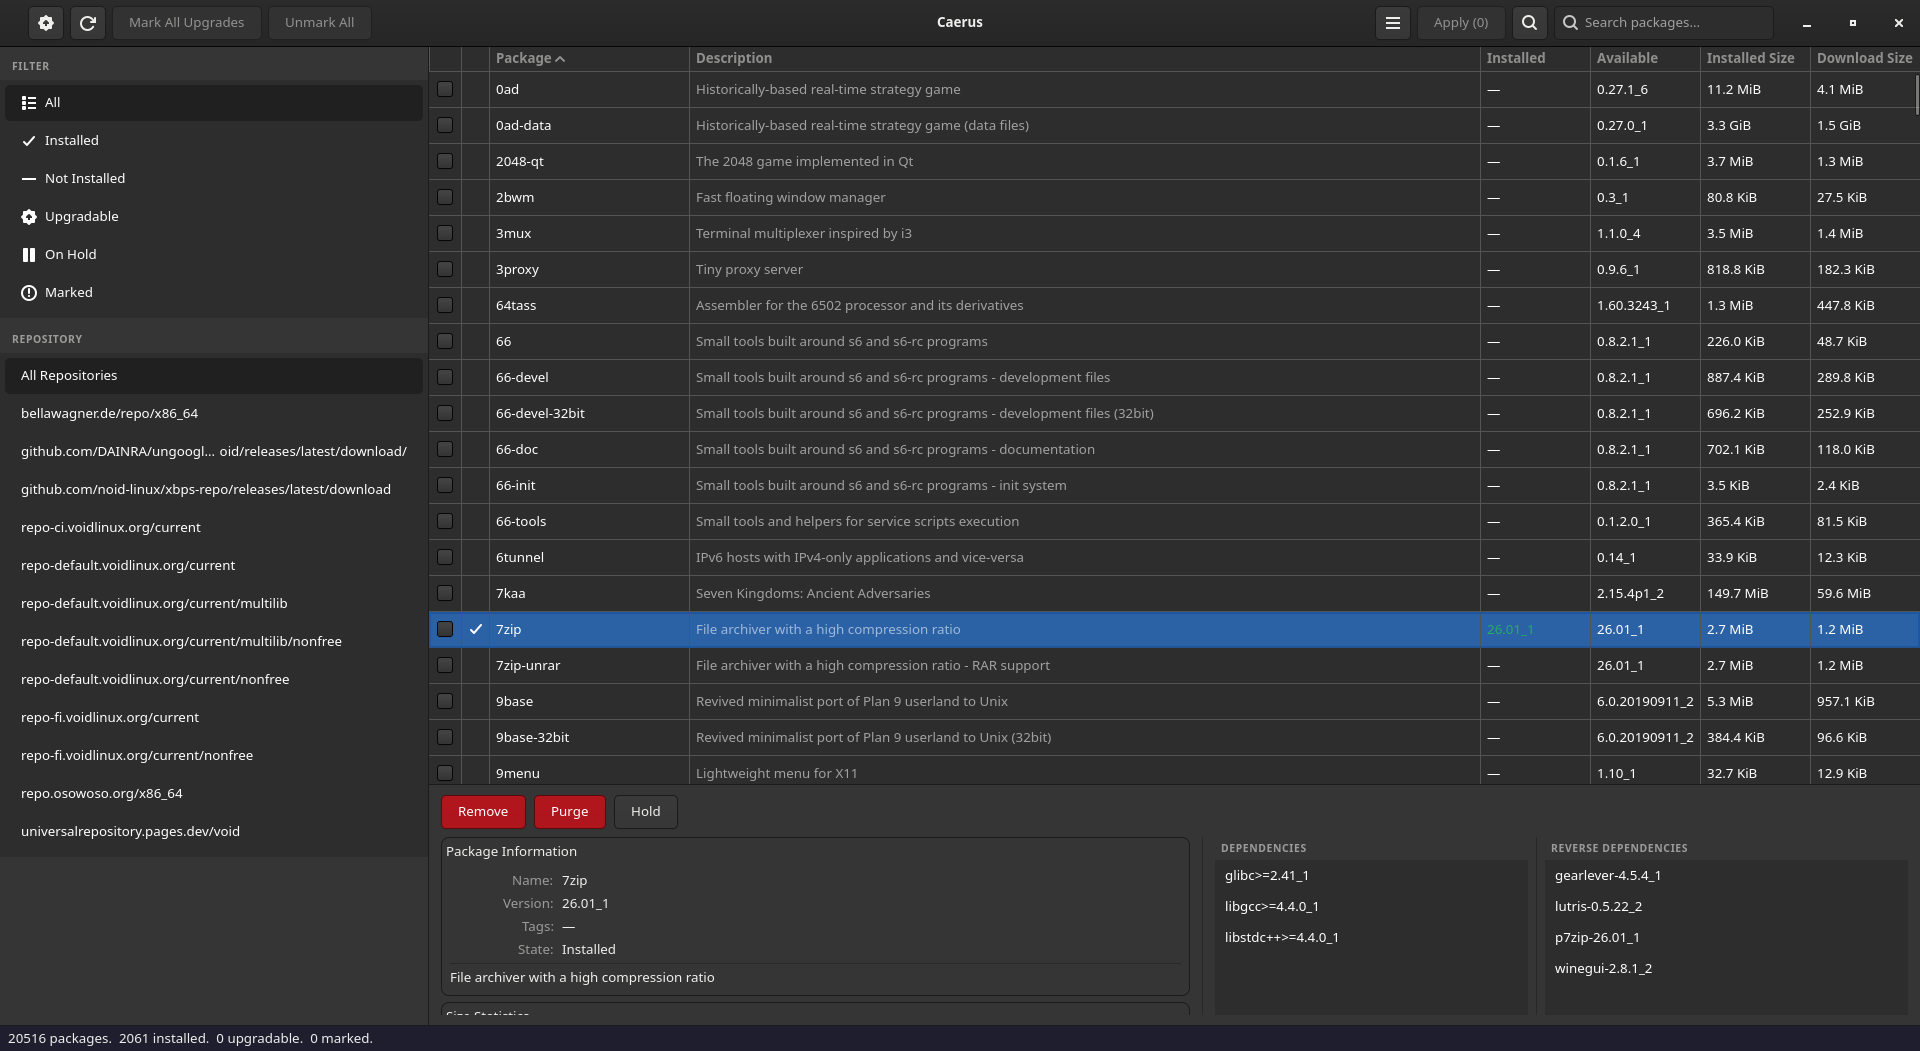
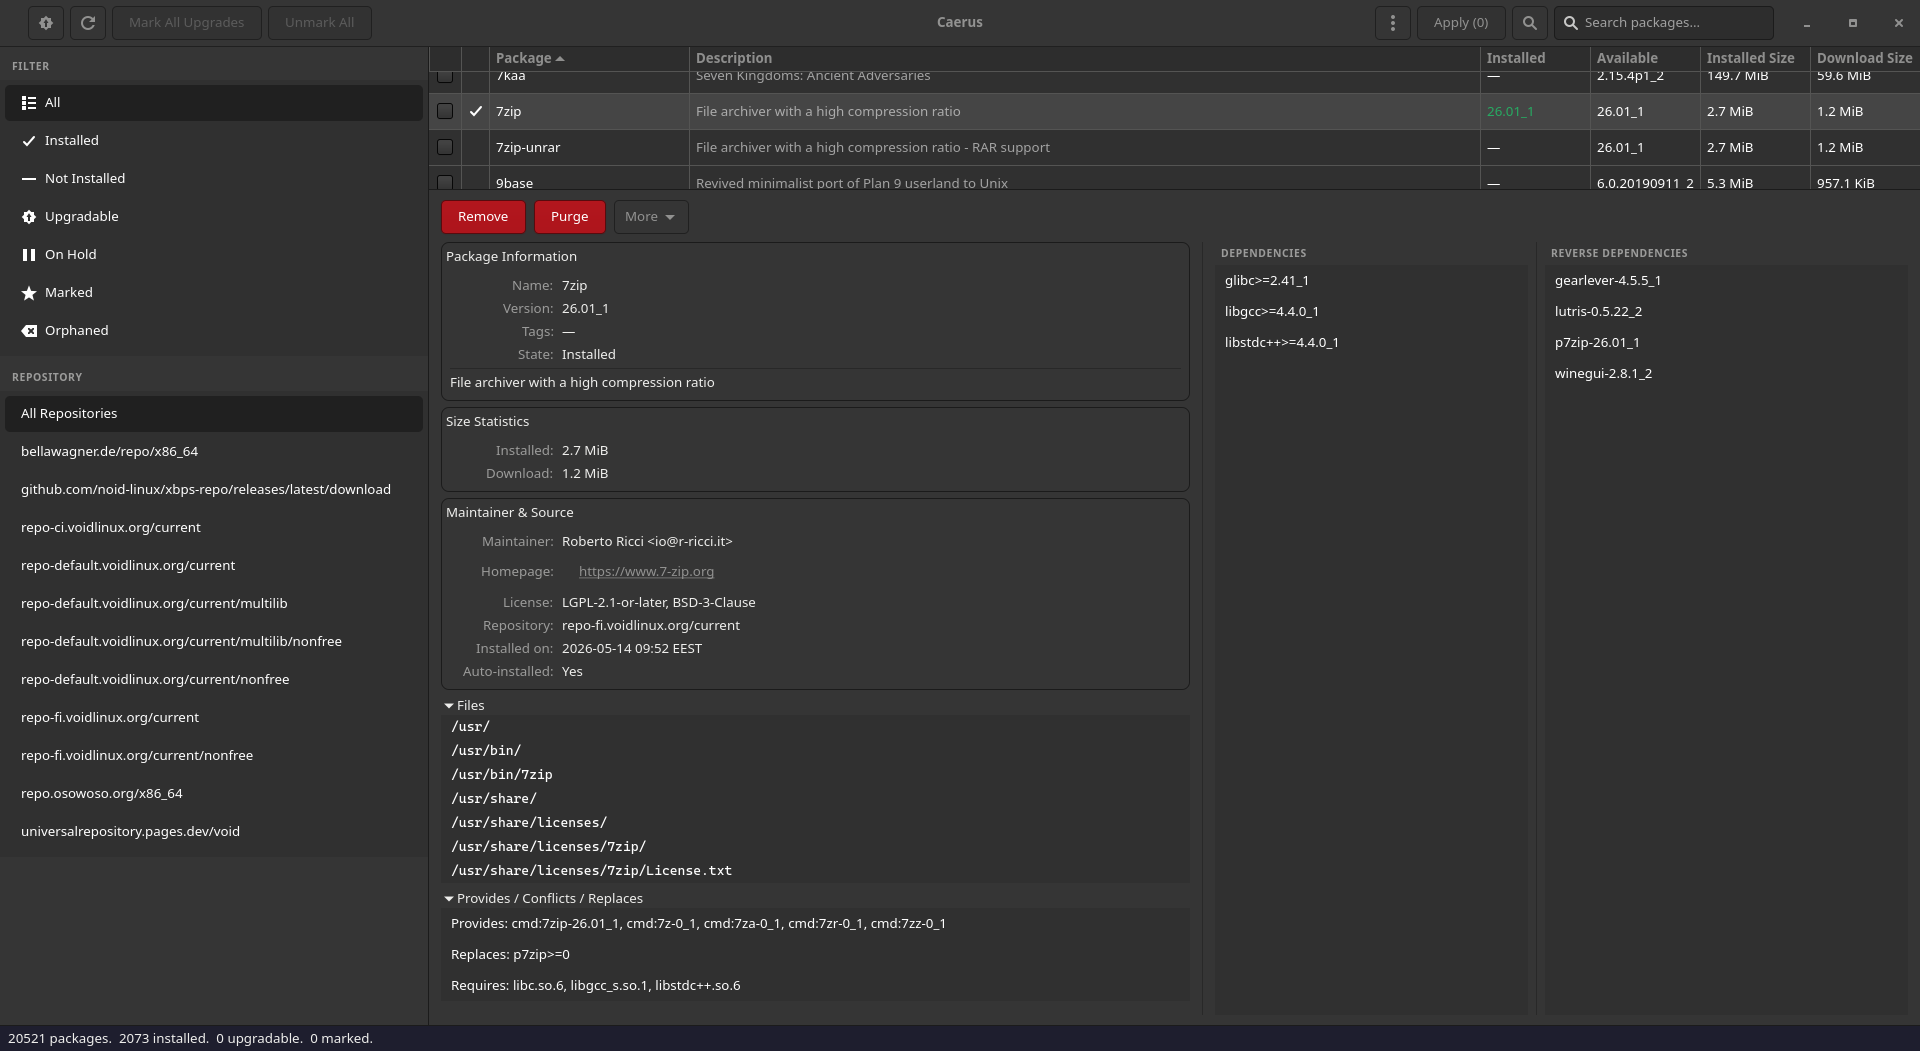
Update screenshots and replace search.png with repositories.png

diff --git a/README.md b/README.md
@@ -19,7 +19,7 @@ via `pkexec`.
   <img src="screenshots/package-details.png" width="49%">
 </p>
 <p float="left">
-  <img src="screenshots/search.png" width="49%">
+  <img src="screenshots/repositories.png" width="49%">
 </p>
 
 ## Features
